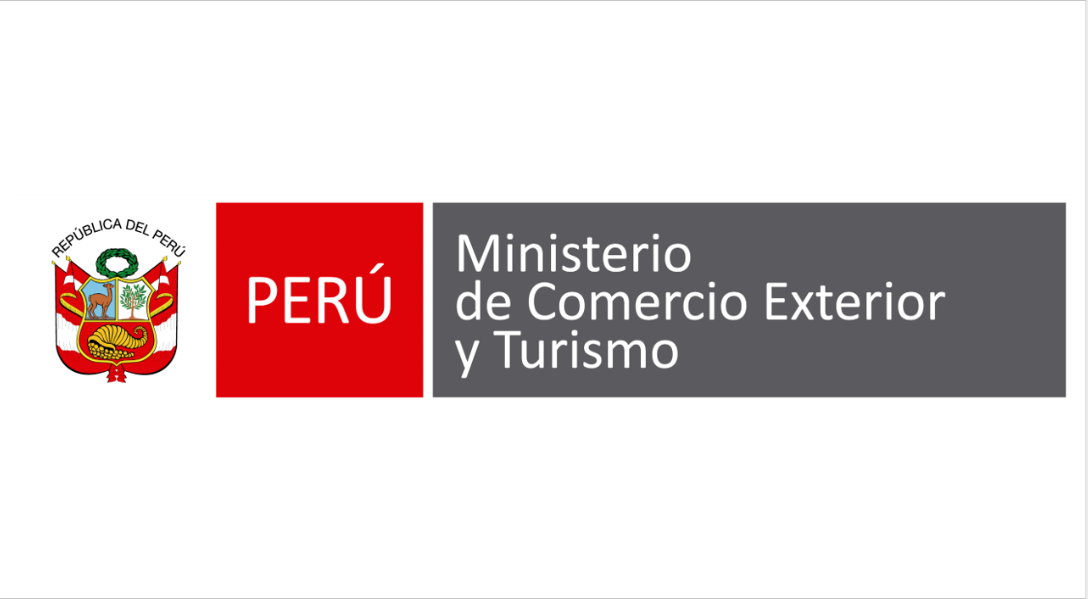
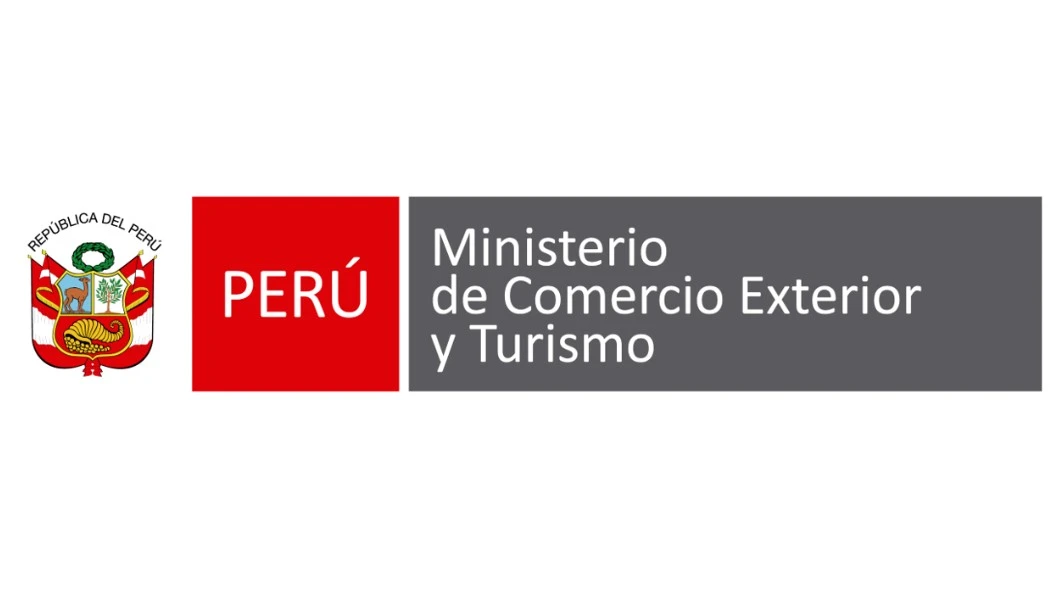
feat

Changed region(s): [[0.0304, 0.3046, 1.0, 0.6701]]

diff --git a/src/app/pages/layout/layout.component.html b/src/app/pages/layout/layout.component.html
@@ -146,17 +146,17 @@
     </div>
 
     <div class="mt-20">
-    <h2 class="text-xl md:text-2xl font-semibold text-center ">
+    <h2 class="text-xl md:text-3xl font-semibold text-center ">
       {{ 'HOME_CERTIFICATES.TITLE' | translate }}
     </h2>
       <div class="flex flex-col md:flex-row justify-center items-center gap-4 mt-4">
         <div class="flex flex-col items-center w-[50%]">
-          <img src="../../../assets/img/certifications/Agencia-de-viajes-turismo-registrada.webp" alt="" class="object-cover h-[20vh]" >
+          <img src="../../../assets/img/certifications/Agencia-de-viajes-turismo-registrada.webp" alt="" class="object-cover w-[60%] h-[20vh]" >
           <span >{{'HOME_CERTIFICATES.AGENCY'|translate}}</span>
         </div>
 
         <div class="flex flex-col items-center w-[50%]">
-          <img src="assets/img/certifications/mincetur.webp" alt="" class="object-cover w-[80%] h-[20vh]">
+          <img src="assets/img/certifications/mincetur.webp" alt="" class="object-cover w-[50%] h-[20vh]">
           <span >{{'HOME_CERTIFICATES.MINCETUR'|translate}}</span>
         </div>
       </div>
